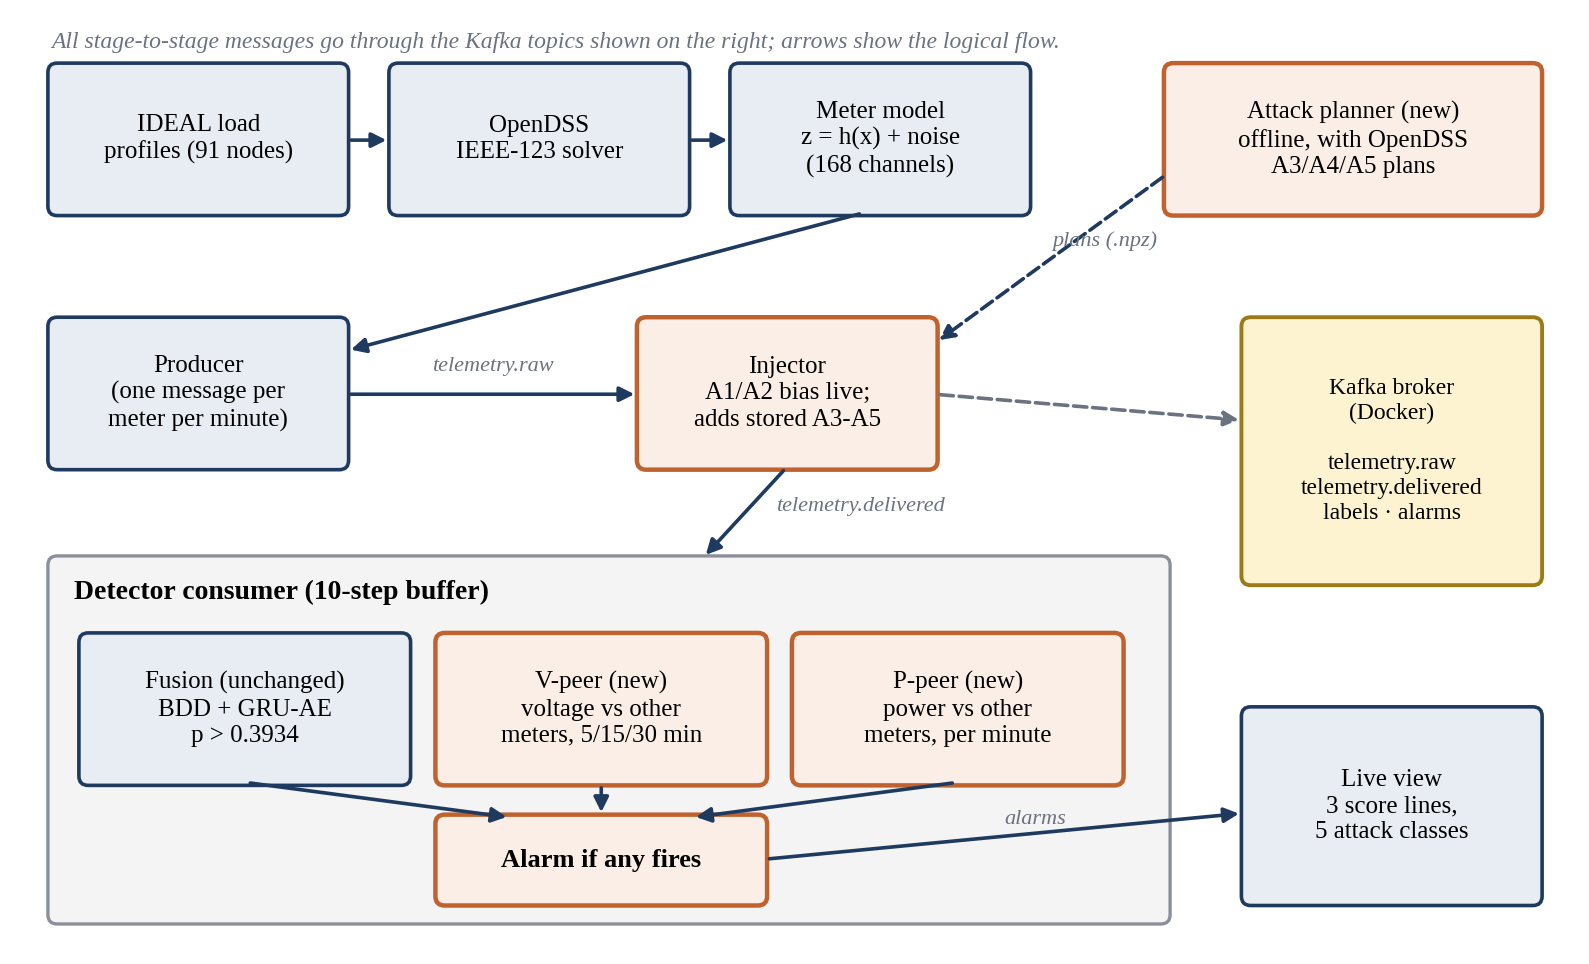
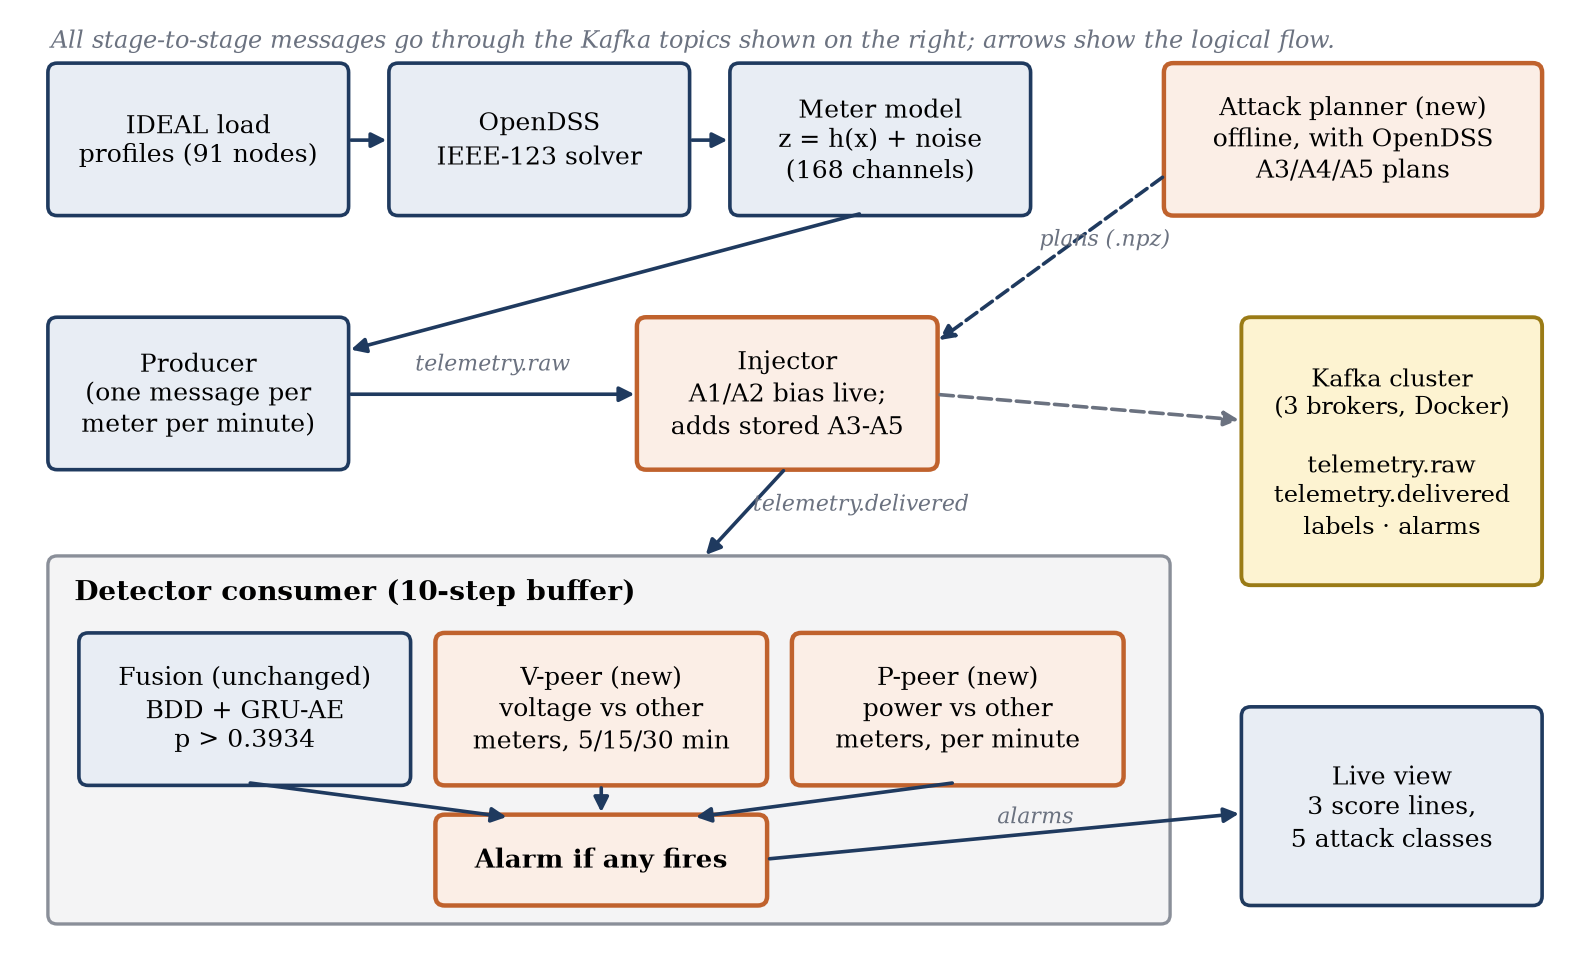
Report figures for the containers and three-broker cluster
Figures 5.2 and 5.3 now show the three-broker cluster and one container
per stage. New Figure 8.11 is the runC_failover timeline with the two
broker kills marked, drawn from its alarms, labels and broker_kill.json.

diff --git a/reports/figures/make_report_figures.py b/reports/figures/make_report_figures.py
@@ -15,6 +15,7 @@ Data sources
   fig8_8  validation/a2_persist_summary.json, validation/a2_baseline_summary.json
   fig8_9  validation/overall_eval_summary.json (A3 by level and duration)
   fig8_10 streaming/demo_runs/runC_all/{alarms,labels}.csv (live A1-A5 run)
+  fig8_11 streaming/demo_runs/runC_failover/{alarms,labels}.csv, broker_kill.json (containers, two broker kills)
 """
 
 import json
@@ -123,7 +124,7 @@ def fig5_2():
         arrow(ax, x, 1.05, 3.75 + (x - 3.75) * 0.25, 0.82)
     arrow(ax, 4.95, 3.1, 4.4, 2.5, text="telemetry.delivered", tx=0.75, ty=-0.02)
     # kafka + view
-    box(ax, 7.9, 2.35, 1.9, 1.7, "Kafka broker\n(Docker)\n\ntelemetry.raw\ntelemetry.delivered\nlabels · alarms", "kafka", size=8.5)
+    box(ax, 7.9, 2.35, 1.9, 1.7, "Kafka cluster\n(3 brokers, Docker)\n\ntelemetry.raw\ntelemetry.delivered\nlabels · alarms", "kafka", size=8.5)
     box(ax, 7.9, 0.27, 1.9, 1.25, "Live view\n3 score lines,\n5 attack classes", "fill", size=9)
     arrow(ax, 4.8, 0.55, 7.9, 0.85, text="alarms", tx=0.2, ty=0.05)
     arrow(ax, 5.9, 3.57, 7.9, 3.4, dashed=True, color=GREY)
@@ -133,21 +134,34 @@ def fig5_2():
 
 
 def fig5_3():
-    fig, ax = canvas(9.5, 4.3)
-    box(ax, 0.1, 0.25, 6.3, 3.6, "", "dash")
-    ax.text(0.25, 3.62, "Host machine (Windows). Each stage is its own process (run_demo.py starts them).",
+    fig, ax = canvas(10, 5.35)
+    box(ax, 0.1, 0.1, 7.3, 5.15, "", "dash")
+    ax.text(0.25, 5.02, "Docker Compose project (docker compose up --build). One container per stage.",
             fontsize=9, color=GREY)
-    box(ax, 0.35, 2.35, 2.8, 0.95, "producer.py\n(OpenDSS inside)", "fill")
-    box(ax, 3.35, 2.35, 2.8, 0.95, "injector.py\n(adds A1-A5 on the wire)", "fill")
-    box(ax, 0.35, 0.55, 2.8, 1.25, "detector_consumer.py\nestimator + GRU-AE\n+ peer_monitor.py (new)", "new")
-    box(ax, 3.35, 0.55, 2.8, 1.25, "live_view.py\n(fusion, V-peer and\nP-peer lines)", "fill")
-    box(ax, 6.9, 1.4, 2.4, 1.7, "Docker\nKafka broker\n(KRaft, one node)\nlocalhost:9092", "kafka", bold=False)
-    box(ax, 6.9, 0.25, 2.4, 0.9, "gen_demo_attacks.py (new)\nrun once, offline\n-> demo_attacks/*.npz", "new", size=8.5)
-    for (x, y) in [(3.15, 2.82), (6.15, 2.82), (3.15, 1.2), (6.15, 1.2)]:
-        arrow(ax, x if x > 4 else x + 3.0, y, 6.9, 2.25, color=GREY)
-    arrow(ax, 6.9, 0.7, 6.15, 2.45, dashed=True, color=ORANGE)
-    ax.text(3.25, 0.32, "All four processes read and write Kafka topics on localhost:9092.", fontsize=8.5, color=GREY,
-            style="italic", ha="center")
+    # three-broker cluster
+    box(ax, 0.3, 3.15, 6.9, 1.6, "", "band")
+    ax.text(0.45, 4.55, "Kafka cluster, apache/kafka:4.3.2 pinned by digest, KRaft", fontsize=10.5, fontweight="bold", va="center")
+    for i, port in enumerate((9092, 9094, 9096)):
+        box(ax, 0.5 + i * 2.25, 3.3, 2.05, 1.0, f"kafka-{i + 1}\nbroker + controller\nhost port {port}", "kafka", size=8.5)
+    ax.text(3.75, 2.98, "every partition on all three brokers; a write needs 2 copies (min.insync.replicas = 2)",
+            fontsize=9, color=GREY, style="italic", ha="center", va="center")
+    # stage containers
+    stages = [("producer\n(OpenDSS)", "fill"), ("injector\n(A1-A5 on\nthe wire)", "new"), ("detector\n(fusion,\npeer\nchecks)", "new"),
+              ("consumer\n(operator\ntwin)", "fill"), ("viewer\n(records\na GIF)", "fill"), ("report\n(writes the\nresult files)", "fill")]
+    for i, (t, k) in enumerate(stages):
+        box(ax, 0.3 + i * 1.17, 1.15, 1.05, 1.45, t, k, size=9)
+        arrow(ax, 0.82 + i * 1.17, 2.6, 0.82 + i * 1.17, 2.83, color=GREY)
+    box(ax, 0.3, 0.25, 6.9, 0.6, "kafka-init creates the topics; the stages start once all three brokers are healthy",
+        "plain", size=9)
+    # host side
+    ax.text(7.65, 5.02, "Host machine", fontsize=9, color=GREY)
+    box(ax, 7.6, 3.55, 2.3, 1.2, "live_view.py\nlive window, reads the\ncluster on localhost", "fill", size=9.5)
+    box(ax, 7.6, 2.0, 2.3, 1.2, "data folders\nmounted read-only\ninto the stages", "plain", size=9.5)
+    box(ax, 7.6, 0.25, 2.3, 1.4, "gen_demo_attacks.py\nrun once, offline\n-> demo_attacks/*.npz\n(read by the injector)", "new", size=9)
+    arrow(ax, 7.6, 4.15, 7.2, 4.0, color=GREY)
+    arrow(ax, 7.6, 2.6, 7.0, 2.2, dashed=True, color=GREY)
+    ax.plot([7.6, 2.0], [1.0, 1.0], color=ORANGE, lw=1.3, ls="--")
+    arrow(ax, 2.0, 1.0, 2.0, 1.17, color=ORANGE)
     save(fig, "fig5_3_deployment.png")
 
 
@@ -422,8 +436,44 @@ def fig8_10():
     save(fig, "fig8_10_runC.png")
 
 
+def fig8_11():
+    rd = BASE / "streaming/demo_runs/runC_failover"
+    al = pd.read_csv(rd / "alarms.csv").sort_values("timestamp").reset_index(drop=True)
+    lb = pd.read_csv(rd / "labels.csv")
+    kills = jload("streaming/demo_runs/runC_failover/broker_kill.json")["kills"]
+    start = int(lb.timestamp.min())
+    fig, ax = plt.subplots(figsize=(10.5, 3.9))
+    for s, e, c in windows(lb):
+        ax.axvspan(s - 0.5, e + 0.5, color=HUES.get(c, "#eee"), alpha=0.75, lw=0)
+        ax.text((s + e) / 2, 4.08, c, ha="center", fontsize=9.5)
+    ymax = 4.0
+    for col, lab, colr in [("fusion_ratio", "fusion (BDD + AE)", "black"), ("v_ratio", "voltage peer check", PURPLE),
+                           ("p_ratio", "power peer check", GOLD)]:
+        ax.plot(al.timestamp, np.clip(al[col], 0, ymax), color=colr, lw=1.0, label=lab)
+    top = np.clip(al[["fusion_ratio", "v_ratio", "p_ratio"]].max(1), 0, ymax)
+    m = al.alarm.astype(bool)
+    ax.plot(al.timestamp[m], top[m], "o", ms=2.6, color="#c0392b", label="alarm (any detector)")
+    ax.axhline(1.0, color=GREY, ls="--", lw=1, label="threshold (each detector)")
+    # steps the detector scored while a broker was down (alarm rows at kill and at restart)
+    for k in kills:
+        a, b = al.timestamp.iloc[k["alarms_at_kill"]], al.timestamp.iloc[min(k["alarms_at_restart"], len(al) - 1)]
+        ax.axvspan(a - 0.5, b + 0.5, facecolor="none", edgecolor=GREY, hatch="///", lw=0)
+        ax.text((a + b) / 2, 3.55, f"{k['killed']}\ndown", ha="center", fontsize=8.5, color=GREY,
+                bbox=dict(fc="white", ec="none", pad=1.0))
+    # the first kill as the producer saw it
+    k = kills[0]
+    p0, p1 = start + k["raw_steps_at_kill"], start + k["raw_steps_at_restart"]
+    ax.plot([p0, p1], [3.0, 3.0], color=ORANGE, lw=2.2)
+    ax.text((p0 + p1) / 2, 3.08, f"{k['killed']} down while the producer published these steps", ha="center",
+            va="bottom", fontsize=8.5, color=ORANGE, bbox=dict(fc="white", ec="none", pad=1.0))
+    ax.set_ylim(0, 4.3); ax.set_ylabel("score / own threshold (clipped at 4)")
+    ax.set_xlabel("stream index (1 step = 1 simulated minute)")
+    ax.legend(frameon=False, fontsize=8, ncol=5, loc="upper center", bbox_to_anchor=(0.5, -0.2))
+    save(fig, "fig8_11_failover.png")
+
+
 ALL = [fig5_1, fig5_2, fig5_3, fig5_4, fig5_5, fig5_6, fig5_7, fig6_1, fig6_2,
-       fig8_1, fig8_2, fig8_3, fig8_4, fig8_5, fig8_6, fig8_7, fig8_8, fig8_9, fig8_10]
+       fig8_1, fig8_2, fig8_3, fig8_4, fig8_5, fig8_6, fig8_7, fig8_8, fig8_9, fig8_10, fig8_11]
 
 if __name__ == "__main__":
     for f in ALL:
